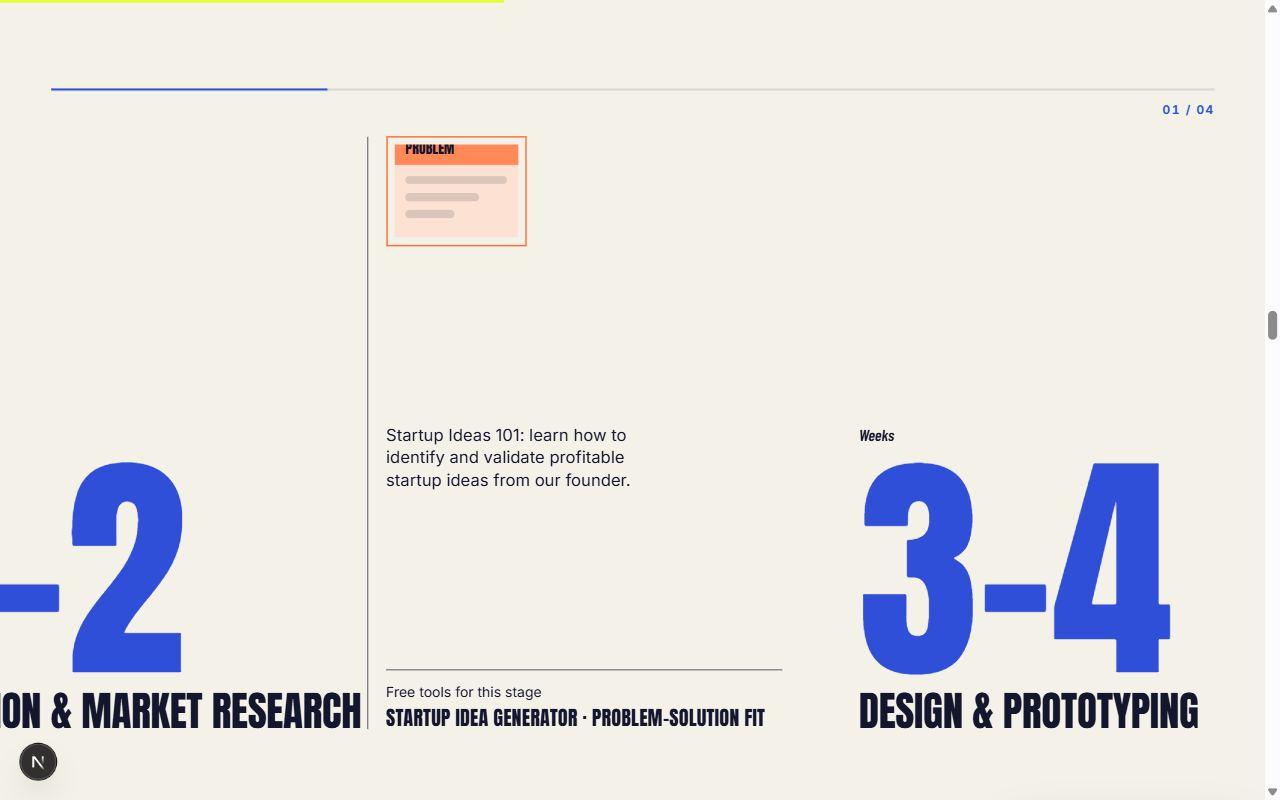
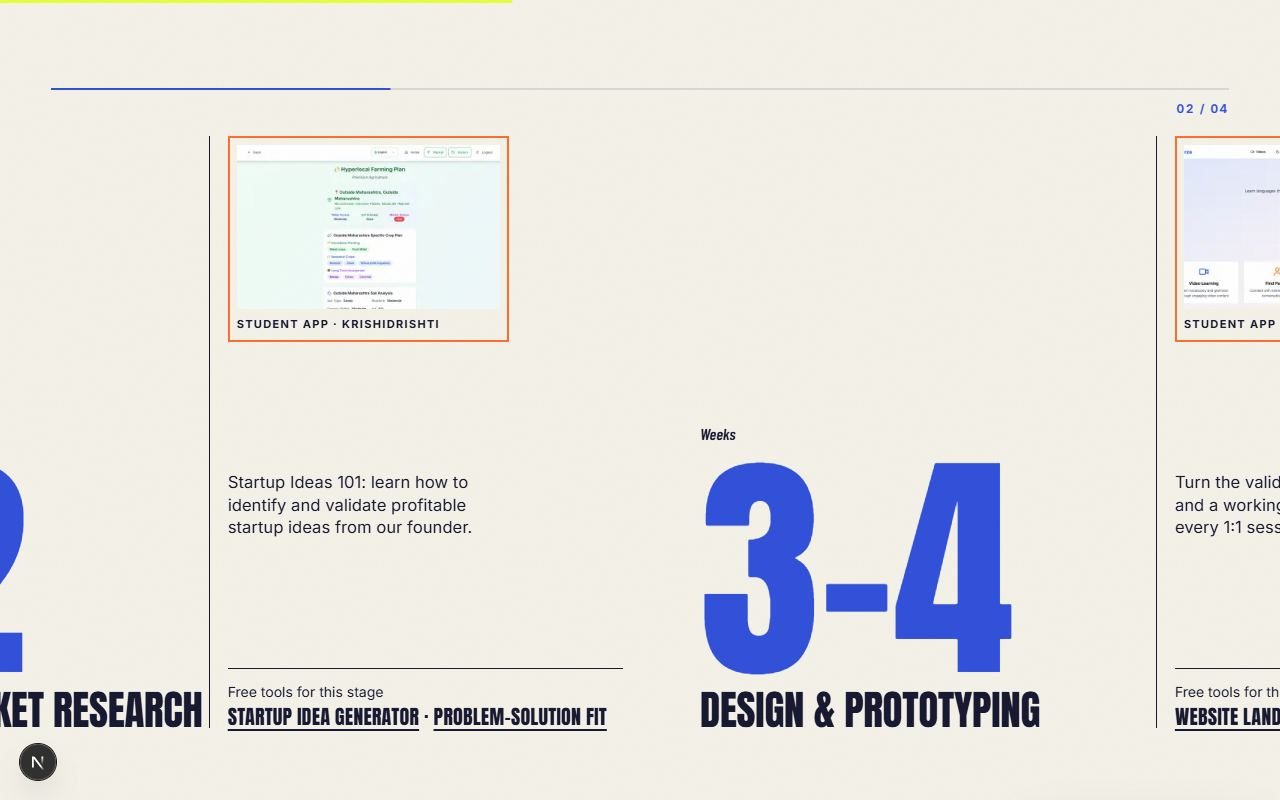
docs: content notes and screenshots for the real student assets

diff --git a/README.md b/README.md
@@ -175,9 +175,11 @@ These are things I deliberately did **not** decide for you:
 
 1. **Conflicting student counts.** The live hero says 100+ students and the "Why" section says 50+. The redesign keeps 50+ in the "Proven Track Record" line, as written, and leaves the count out of the hero until you confirm the number.
 2. **One editorial sentence.** The live site names the "Design & Prototyping" stage without describing it. The timeline uses one plain sentence there, marked `EDITORIAL` in `apps/web/content/site.ts`. Everything else is your copy, verbatim.
-3. **Free tools link.** The tools on the live page have no links. "Access All Tools Free" points at your tools section until the tools have their own URL (a single setting in `site.ts`).
+3. **Founder lesson.** The live site embeds a YouTube talk beside "Startup Ideas 101 … from our founder". The redesign links that talk and names its speaker, Partha Chakraborty, as the video's own title does. Please confirm you want the founder named on the homepage.
 4. **Claims.** "Results guaranteed or money back" and "100% of our students launch a working app" are kept as your wording. You may want them backed by specifics.
-5. **Comp sections left out.** The design comp had a founder card with photo and credentials, a university-names block, parent quotes, an instalment line and refund terms. The live site has no content for them, so they are not built. They are easy to add to `apps/web/content/site.ts` when you have real material. The student screenshots are illustrated placeholders for the same reason.
+5. **Comp sections left out.** The design comp had a founder photo and credentials, a university-names block, parent quotes, an instalment line and refund terms. The live site has no content for them, so they are not built. They are easy to add to `apps/web/content/site.ts` when you have real material.
+6. **Real assets reused, stock ones not.** The student-app screenshots, the eight tool links and the Google Calendar booking page all come from tactyqal.com. Two things were deliberately left out: the testimonial photos, which are stock portraits from a random-portrait service rather than the students named, and the two background videos, which are stock footage. Testimonials show initials until you have real photos with permission.
+7. **Student app links.** The live site does not link to the student apps, so neither does the redesign. If the students are happy to be linked, add each app's URL in `site.ts`.
 
 ## Project structure
 
